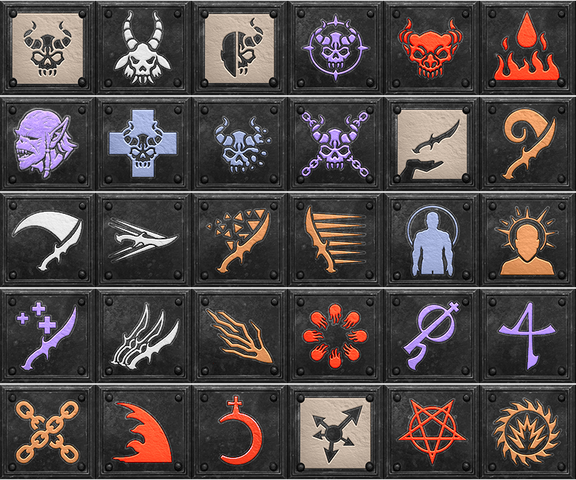
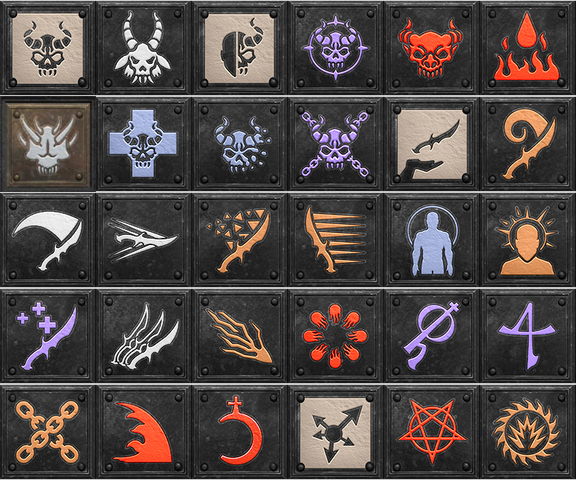
파멸자 소환 아이콘을 실제 인게임 아이콘으로 교체
모드 저장소의 커스텀 임프 그림 대신 사용자가 보내준 인게임 캡처
(뿔 달린 해골)를 잘라 사용. 재추출 시 덮어쓰지 않도록 인계 노트에 기록.

Claude-Session: https://claude.ai/code/session_01UX2HJajKh6iMMxz1GqBPiw

Changed region(s): [[0.0, 0.1875, 0.1875, 0.4062]]

diff --git a/docs/sw.js b/docs/sw.js
@@ -1,4 +1,4 @@
-const VERSION = "d2r-abe23c1e542e";
+const VERSION = "d2r-6f9dc0eff68d";
 const CORE = ["./", "index.html", "manifest.webmanifest", "icons/apple-touch-icon.png", "icons/icon-192.png", "icons/icon-512.png"];
 const ASSETS = ["assets/items/aerinshield.png", "assets/items/aldursadvance.png", "assets/items/aldursdeception.png", "assets/items/aldursrhythm.png", "assets/items/aldursstoneygaze.png", "assets/items/amu1.png", "assets/items/amu2.png", "assets/items/amu3.png", "assets/items/angelicmantle.png", "assets/items/angelicsickle.png", "assets/items/annihilus.png", "assets/items/antlers.png", "assets/items/arachnidmesh.png", "assets/items/arcannasdeathwand.png", "assets/items/arcannasflesh.png", "assets/items/arcannashead.png", "assets/items/arcticbinding.png", "assets/items/arcticfurs.png", "assets/items/arctichorn.png", "assets/items/arcticmitts.png", "assets/items/ariocsneedle.png", "assets/items/ars_aldiabolos_graphic.png", "assets/items/ars_torbaalos_graphic.png", "assets/items/assualthelm.png", "assets/items/avengerguard.png", "assets/items/azurewrath.png", "assets/items/balancedaxe.png", "assets/items/balrogskin.png", "assets/items/baneash.png", "assets/items/banes_spire_graphic3.png", "assets/items/bardiche.png", "assets/items/belt.png", "assets/items/berserkerhatchet.png", "assets/items/berserkerhauberk.png", "assets/items/berserkerheadgear.png", "assets/items/blacktongue.png", "assets/items/bladebuckle.png", "assets/items/bladeofalibaba.png", "assets/items/blastbark.png", "assets/items/blessedcircle.png", "assets/items/blinkbatsform.png", "assets/items/bloodcrescent.png", "assets/items/bloodfist.png", "assets/items/bloodravenscharge.png", "assets/items/bloodrise.png", "assets/items/bloodthief.png", "assets/items/boneflesh.png", "assets/items/bonesnap.png", "assets/items/brainhew.png", "assets/items/broadaxe.png", "assets/items/bulkathossacredcharge.png", "assets/items/bulkathostribalguardian.png", "assets/items/butcherspupil.png", "assets/items/bverritkeep.png", "assets/items/cap.png", "assets/items/cathansmesh.png", "assets/items/cathansrule.png", "assets/items/cerebusbite.png", "assets/items/chainboots.png", "assets/items/chaingloves.png", "assets/items/chainmail.png", "assets/items/chanceguards.png", "assets/items/civerbsward.png", "assets/items/claws.png", "assets/items/cleglawsclaw.png", "assets/items/cleglawspincers.png", "assets/items/cleglawstooth.png", "assets/items/codex_graphic2.png", "assets/items/coifofglory.png", "assets/items/coldkill.png", "assets/items/corpsemourn.png", "assets/items/credendum.png", "assets/items/crownofages.png", "assets/items/crownofthieves.png", "assets/items/crushflange.png", "assets/items/dagger.png", "assets/items/dangoonsteaching.png", "assets/items/darkadherent.png", "assets/items/darkglow.png", "assets/items/darksighthelm.png", "assets/items/deathsguard.png", "assets/items/deathshand.png", "assets/items/deathspade.png", "assets/items/deathstouch.png", "assets/items/demonhead.png", "assets/items/demonmachine.png", "assets/items/demonsarch.png", "assets/items/diadem.png", "assets/items/dirk_graphic.png", "assets/items/doomspittle.png", "assets/items/doubleaxe.png", "assets/items/dragonstone.png", "assets/items/dreadfang_graphic.png", "assets/items/durielsshell.png", "assets/items/duskdeep.png", "assets/items/fangedhelm.png", "assets/items/felloak.png", "assets/items/flamebellow.png", "assets/items/flayedoneskin.png", "assets/items/fleshripper.png", "assets/items/frostburn.png", "assets/items/fullplate.png", "assets/items/gargoylehead.png", "assets/items/gargoylesbite.png", "assets/items/gauntlets.png", "assets/items/gheeds.png", "assets/items/ghostflame.png", "assets/items/giantaxe.png", "assets/items/giantskull.png", "assets/items/gimmershred.png", "assets/items/girdle.png", "assets/items/gladiatorsbane.png", "assets/items/gleamscythe.png", "assets/items/goblintoe.png", "assets/items/goldskin.png", "assets/items/goldstrikearch.png", "assets/items/goldwrap.png", "assets/items/gorefoot.png", "assets/items/gothicplate.png", "assets/items/grandscepter.png", "assets/items/gravenspine.png", "assets/items/greatmaul.png", "assets/items/greyform.png", "assets/items/grimwand.png", "assets/items/griswoldsedge.png", "assets/items/griswoldsheart.png", "assets/items/griswoldshonor.png", "assets/items/griswoldsredemption.png", "assets/items/griswoldsvalor.png", "assets/items/guardianangel.png", "assets/items/guillaumesface.png", "assets/items/gutsiphon.png", "assets/items/haemosusadament.png", "assets/items/halberd.png", "assets/items/hardleather_graphic.png", "assets/items/harlequincrest.png", "assets/items/hawkhelm.png", "assets/items/hawkmail.png", "assets/items/headstriker.png", "assets/items/heavenlygarb.png", "assets/items/heavybelt.png", "assets/items/heavyboots.png", "assets/items/heavygloves.png", "assets/items/hellcast.png", "assets/items/hellclap.png", "assets/items/hellfiretorch.png", "assets/items/hellplague.png", "assets/items/hellrack.png", "assets/items/hellwarden_graphic.png", "assets/items/hexfire.png", "assets/items/horazons_countenance_graphic.png", "assets/items/horizonstornado.png", "assets/items/hornedhelm.png", "assets/items/hotspur.png", "assets/items/howltusk.png", "assets/items/hsarusironfist.png", "assets/items/hsarusironheel.png", "assets/items/hsarusironstay.png", "assets/items/hwaninsblessing.png", "assets/items/hwaninssplendor.png", "assets/items/iceblink.png", "assets/items/ichorsting.png", "assets/items/immortalsoulcage.png", "assets/items/immortalwill.png", "assets/items/impaler.png", "assets/items/infernalbuckle.png", "assets/items/infernalcranium.png", "assets/items/irathascoil.png", "assets/items/irathascord.png", "assets/items/irathascuff.png", "assets/items/iricesshard.png", "assets/items/ironpelt.png", "assets/items/ironstone.png", "assets/items/irostorch.png", "assets/items/isenhartscase.png", "assets/items/isenhartshorns.png", "assets/items/isenhartslightbrand.png", "assets/items/isenhartsparry.png", "assets/items/jadetalon.png", "assets/items/jewel05.png", "assets/items/kinemilsawl.png", "assets/items/kukoshakaku.png", "assets/items/lanceguard.png", "assets/items/lanceofyaggai.png", "assets/items/langerbriser.png", "assets/items/largeaxe.png", "assets/items/layingofhands.png", "assets/items/lazarusspire.png", "assets/items/leadcrow.png", "assets/items/leatherboots.png", "assets/items/leathergloves.png", "assets/items/lenymscord.png", "assets/items/leviathan.png", "assets/items/lidlesswall.png", "assets/items/lightbelt.png", "assets/items/lightgauntlets.png", "assets/items/lightplate.png", "assets/items/lightplateboots.png", "assets/items/longbattlebow.png", "assets/items/maelstrom.png", "assets/items/magefist.png", "assets/items/magnusskin.png", "assets/items/maidenjavelin.png", "assets/items/maidenpike.png", "assets/items/mangsongslesson.png", "assets/items/mask.png", "assets/items/maul.png", "assets/items/mavinascaster.png", "assets/items/mavinasembrace.png", "assets/items/mavinasicyclutch.png", "assets/items/mavinastenet.png", "assets/items/mavinastruesight.png", "assets/items/measured_wrath_graphic.png", "assets/items/milabregasdiadem.png", "assets/items/milabregasorb.png", "assets/items/milabregasrobe.png", "assets/items/mindrend.png", "assets/items/najscirclet.png", "assets/items/natalyasmark.png", "assets/items/natalyasshadow.png", "assets/items/natalyassoul.png", "assets/items/natalyastotem.png", "assets/items/nightsmoke.png", "assets/items/nightwingsveil.png", "assets/items/ondalsalmighty.png", "assets/items/peltalunata.png", "assets/items/piercerib.png", "assets/items/pike.png", "assets/items/plaguebearer.png", "assets/items/plateboots.png", "assets/items/platemail.png", "assets/items/pluckeye.png", "assets/items/poleaxe.png", "assets/items/pullspite.png", "assets/items/pusspitter.png", "assets/items/quilted.png", "assets/items/rattlecage.png", "assets/items/razortine.png", "assets/items/reflexbow.png", "assets/items/ribcracker.png", "assets/items/riftlash.png", "assets/items/rimeraven.png", "assets/items/ring1.png", "assets/items/ring2.png", "assets/items/ring3.png", "assets/items/ring4.png", "assets/items/ringmail.png", "assets/items/riphook.png", "assets/items/ripsaw.png", "assets/items/riteofpassage.png", "assets/items/rixotskeen.png", "assets/items/rockfleece.png", "assets/items/rockstopper.png", "assets/items/rondache.png", "assets/items/sacredglobe.png", "assets/items/sandersparagon.png", "assets/items/sandersriprap.png", "assets/items/sanderssuperstition.png", "assets/items/sanderstaboo.png", "assets/items/sash.png", "assets/items/sazabiscobaltredeemer.png", "assets/items/sazabisghostliberator.png", "assets/items/sazabismentalsheath.png", "assets/items/scalemail.png", "assets/items/scepter.png", "assets/items/scythe.png", "assets/items/serpentlord.png", "assets/items/shadowfang.png", "assets/items/shadowkiller.png", "assets/items/shortbow.png", "assets/items/shortstaff.png", "assets/items/sigonsgauntlets.png", "assets/items/sigonsgreaves.png", "assets/items/sigonsguard.png", "assets/items/sigonsshelter.png", "assets/items/sigonsvisor.png", "assets/items/sigonswrap.png", "assets/items/skinoftheviper.png", "assets/items/skullcollector.png", "assets/items/snakecord.png", "assets/items/soulfeastine.png", "assets/items/soulflay.png", "assets/items/soulharvest.png", "assets/items/sparklingmail.png", "assets/items/spiritmask.png", "assets/items/splintmail.png", "assets/items/steelclash.png", "assets/items/steeldriver.png", "assets/items/steelgoad.png", "assets/items/steelshade.png", "assets/items/stoneraven.png", "assets/items/stormchaser.png", "assets/items/stormguild.png", "assets/items/stormlash.png", "assets/items/stormrider.png", "assets/items/stormspike.png", "assets/items/stoutnail.png", "assets/items/studdedleather.png", "assets/items/swordbackhold.png", "assets/items/swordguard.png", "assets/items/taebaeksglory.png", "assets/items/talrashasfine-spuncloth.png", "assets/items/talrashasguardianship.png", "assets/items/talrashaslidlesseye.png", "assets/items/tancredscrowbill.png", "assets/items/tancredshobnails.png", "assets/items/tancredsskull.png", "assets/items/tancredsspine.png", "assets/items/tarnhelm.png", "assets/items/tearhaunch.png", "assets/items/templarsmight.png", "assets/items/thecenturion.png", "assets/items/thechieftan.png", "assets/items/thediggler.png", "assets/items/thedragonchang.png", "assets/items/thegeneralstandoliga.png", "assets/items/thegnasher.png", "assets/items/thehandofbroc.png", "assets/items/theironjangbong.png", "assets/items/thejadetando.png", "assets/items/thepatriarch.png", "assets/items/thesalamander.png", "assets/items/thetannrgorerod.png", "assets/items/theward.png", "assets/items/throwingknife.png", "assets/items/tiara.png", "assets/items/todesfaelleflamme.png", "assets/items/tome_graphic.png", "assets/items/toothrow.png", "assets/items/trang-oulsclaws.png", "assets/items/trang-oulsgirth.png", "assets/items/trang-oulsguise.png", "assets/items/trang-oulsscales.png", "assets/items/trang-oulswing.png", "assets/items/treadsofcthon.png", "assets/items/twitchthroe.png", "assets/items/umbraldisk.png", "assets/items/undeadcrown.png", "assets/items/vampiregaze.png", "assets/items/veilofsteel.png", "assets/items/venomsward.png", "assets/items/victorssilk.png", "assets/items/vidalasambush.png", "assets/items/vidalasbarb.png", "assets/items/vidalasfetlock.png", "assets/items/viperfork.png", "assets/items/voulge.png", "assets/items/walloftheeyeless.png", "assets/items/wand.png", "assets/items/waraxe.png", "assets/items/warbonet.png", "assets/items/warhammer.png", "assets/items/warpspear.png", "assets/items/warscepter.png", "assets/items/warscythe.png", "assets/items/warshrike.png", "assets/items/warsword.png", "assets/items/whitstansguard.png", "assets/items/widowmaker.png", "assets/items/wilhelmspride.png", "assets/items/windforce.png", "assets/items/witchwildstring.png", "assets/items/witherstring.png", "assets/items/wizendraw.png", "assets/items/wormskull.png", "assets/items/wraithflight.png", "assets/runes/r01.png", "assets/runes/r02.png", "assets/runes/r03.png", "assets/runes/r04.png", "assets/runes/r05.png", "assets/runes/r06.png", "assets/runes/r07.png", "assets/runes/r08.png", "assets/runes/r09.png", "assets/runes/r10.png", "assets/runes/r11.png", "assets/runes/r12.png", "assets/runes/r13.png", "assets/runes/r14.png", "assets/runes/r15.png", "assets/runes/r16.png", "assets/runes/r17.png", "assets/runes/r18.png", "assets/runes/r19.png", "assets/runes/r20.png", "assets/runes/r21.png", "assets/runes/r22.png", "assets/runes/r23.png", "assets/runes/r24.png", "assets/runes/r25.png", "assets/runes/r26.png", "assets/runes/r27.png", "assets/runes/r28.png", "assets/runes/r29.png", "assets/runes/r30.png", "assets/runes/r31.png", "assets/runes/r32.png", "assets/runes/r33.png", "assets/skills/sheets/amazon.png", "assets/skills/sheets/assassin.png", "assets/skills/sheets/barbarian.png", "assets/skills/sheets/druid.png", "assets/skills/sheets/necromancer.png", "assets/skills/sheets/paladin.png", "assets/skills/sheets/sorceress.png", "assets/skills/sheets/warlock.png"];
 

diff --git a/HANDOFF.md b/HANDOFF.md
@@ -63,6 +63,9 @@
     웹 검색 도구(WebSearch)는 인벤·나무위키 내용을 읽을 수 있음(직접 fetch는 차단).
 - 스킬 아이콘: **전 클래스 D2R 원본** — D2R-Reimagined 저장소 data/hd/global/ui/spells/<class>/<xx>skillicon.sprite
   → extract_sprite_icons.py → build_skill_sheets.py (2026-10-19 교체, 구작 d2planner 크롭은 더 이상 안 씀)
+  - **예외**: assets/skills/warlock/summon-trickster.png(파멸자 소환)는 모드가 커스텀 그림으로 바꿔놔서
+    사용자의 인게임 캡처에서 잘라 넣음(2026-10-19). 재추출 시 이 파일은 덮어쓰지 말 것.
+    오라 바닥 이펙트 실물 이미지도 웹·저장소 전부에서 구할 수 없음 — 사용자 캡처만이 유일한 소스.
 - 아이템·룬 이미지: github **bartosz-kasprzyk/d2archives** (src/images/items, src/images/Runes, src/common/config/uniqueAndSetData.json)
 - 네트워크: npm, GitHub(add_repo로 공개 저장소 clone)는 됨. namu.wiki, fandom 등 대부분 웹사이트는 차단.
 
